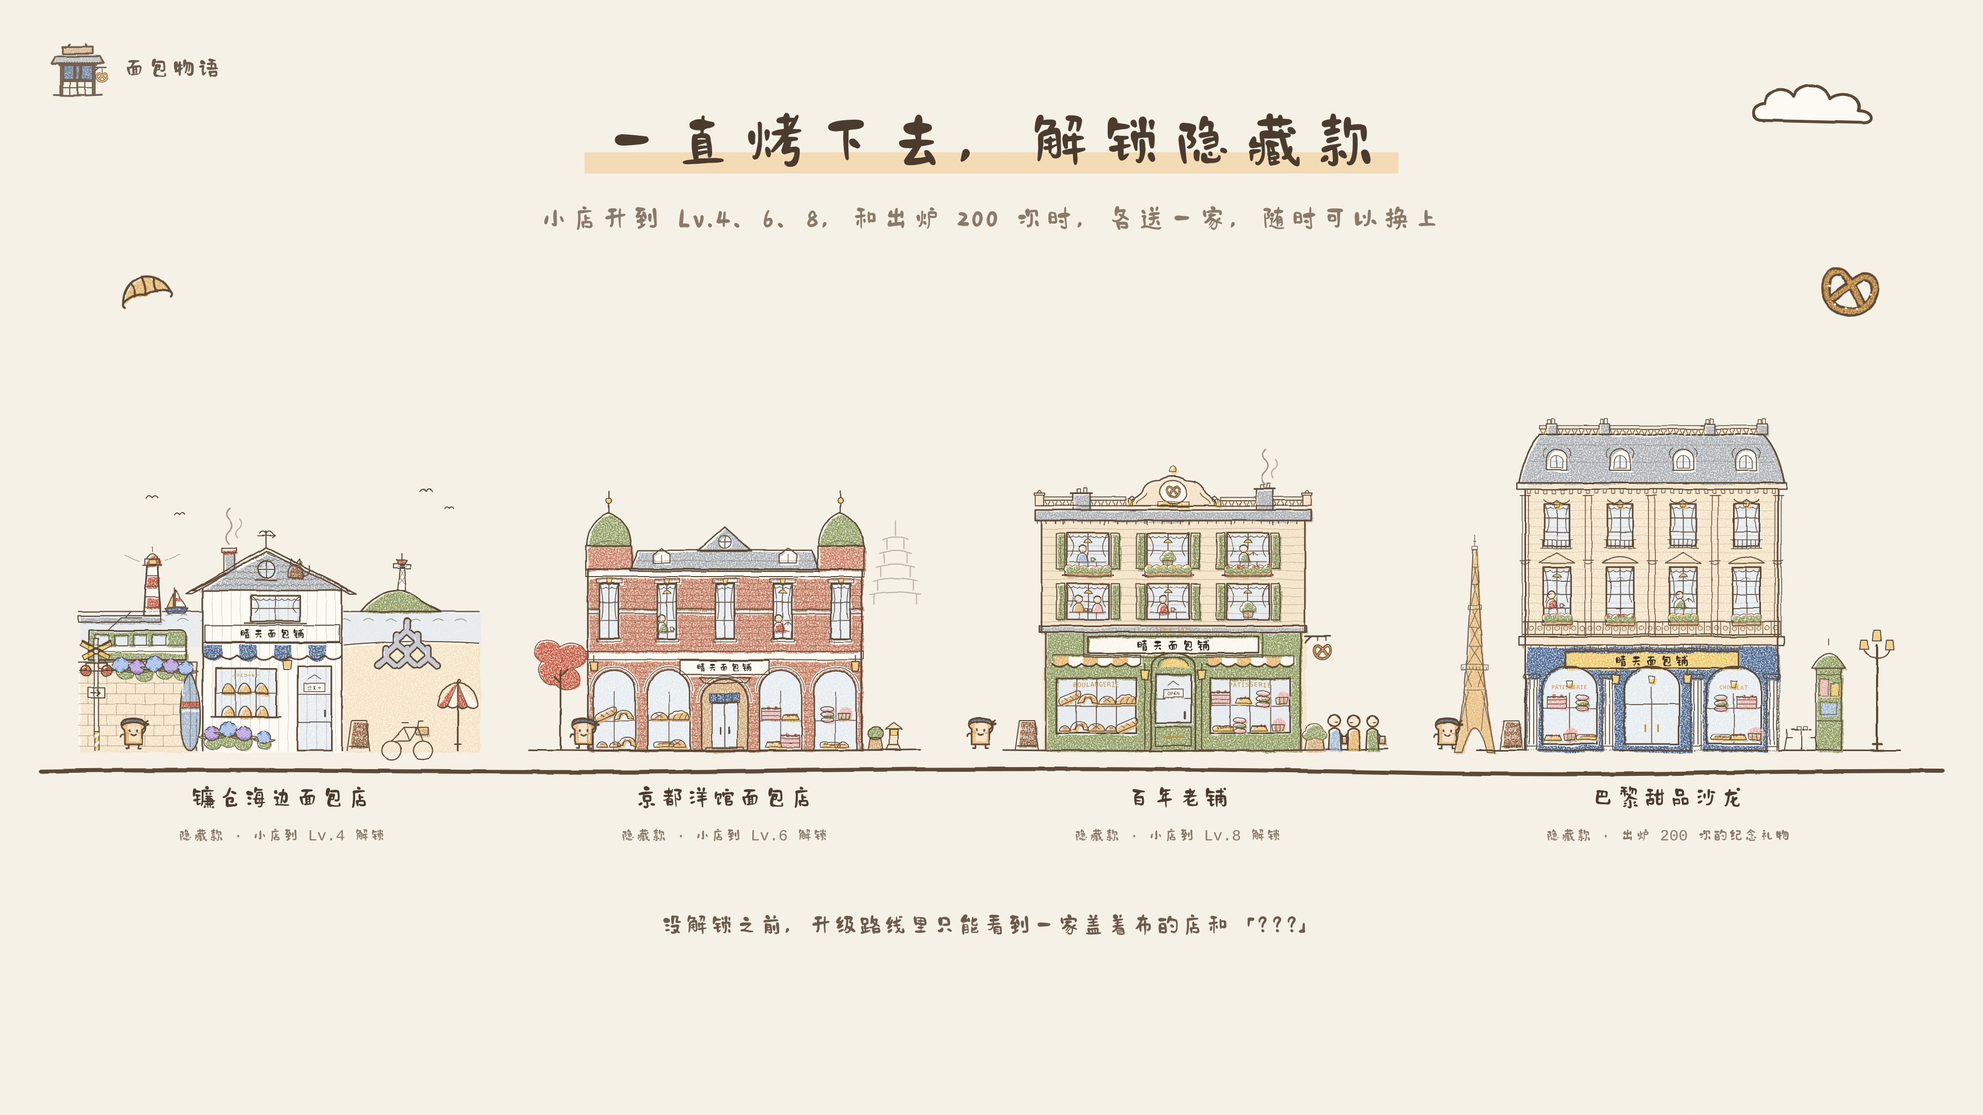
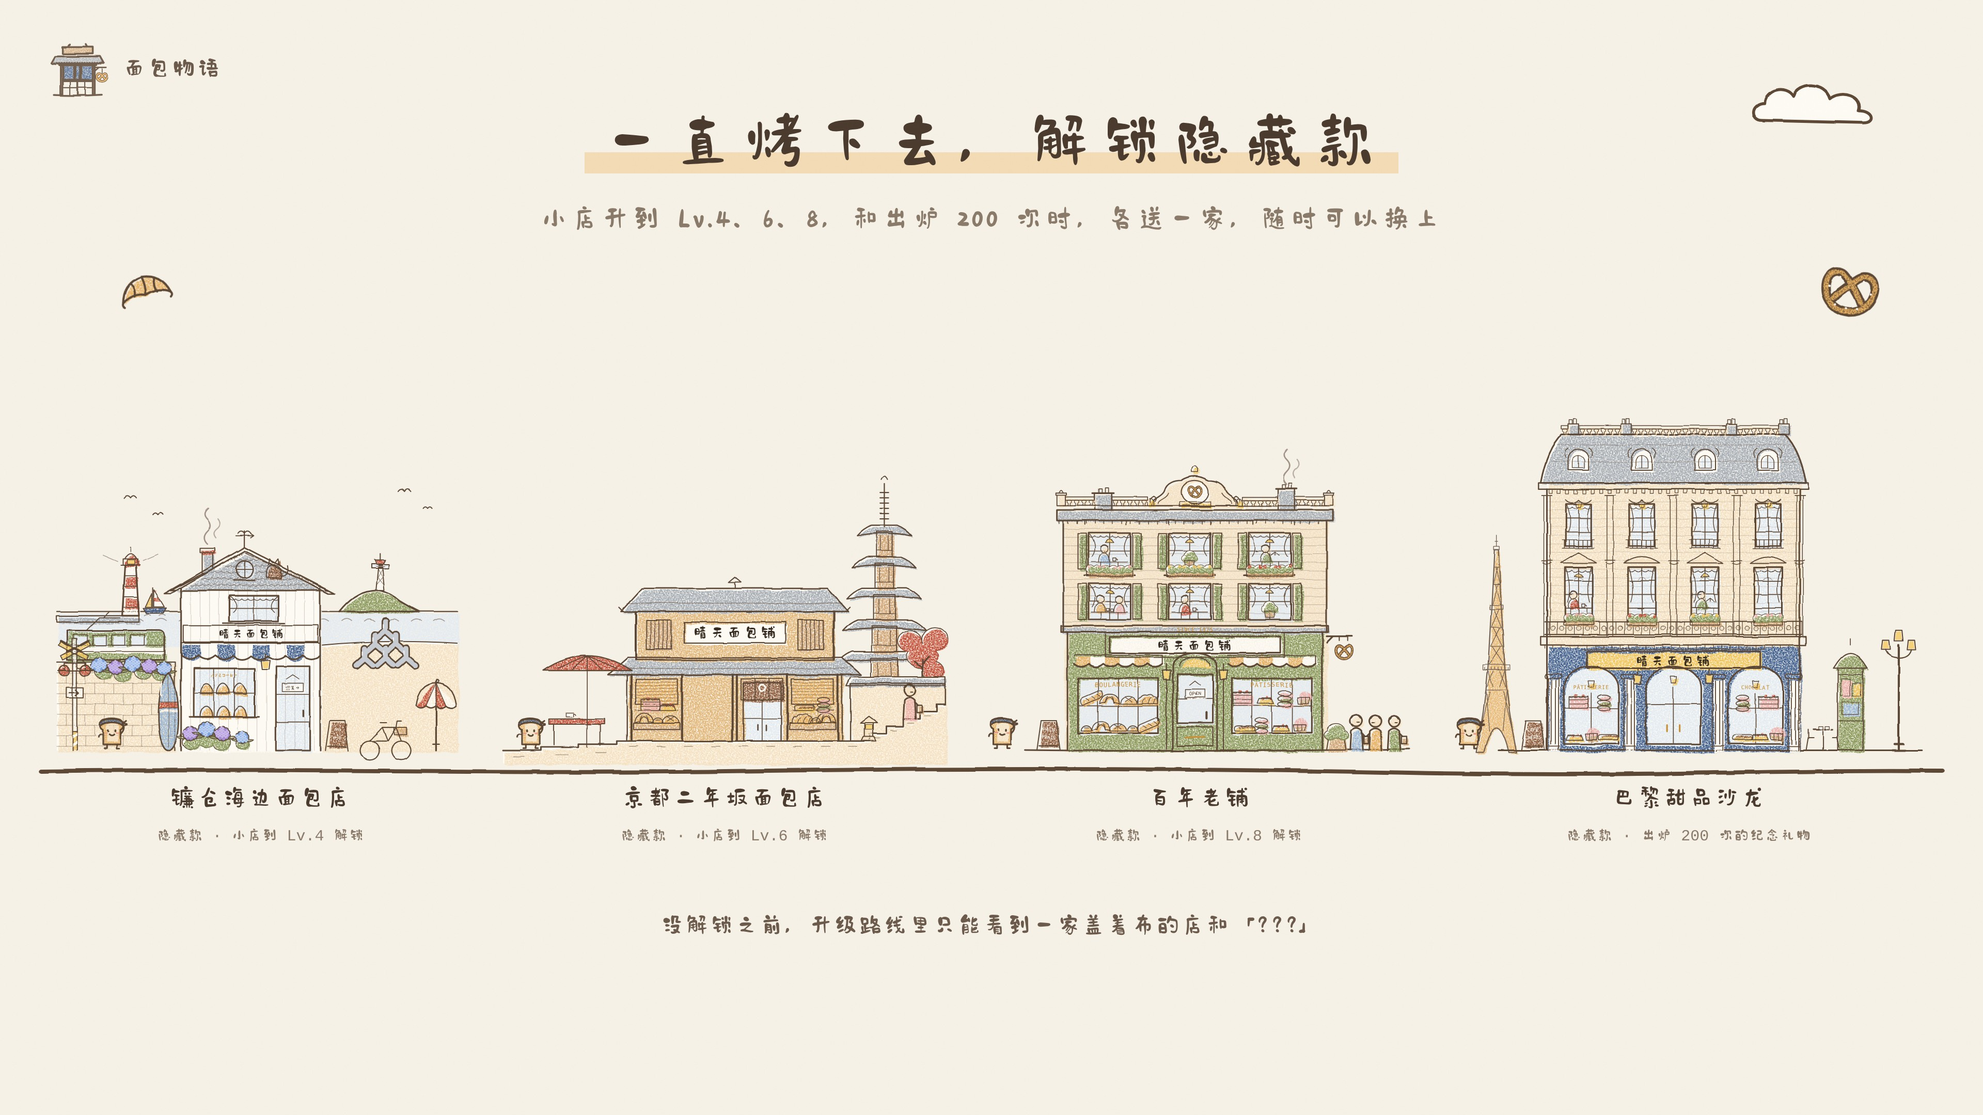
Kyoto secret shop: Ninenzaka slope teahouse bakery
Replaces the red-brick version: an ochre teahouse-style bakery halfway up
stone steps, with bamboo blinds, a red bench and parasol, a walker on the
steps, a stone lantern and maple by the wall and the Yasaka pagoda above.
Promo images regenerated.

Claude-Session: https://claude.ai/code/session_01F9RazEHnZ5c2EgjunkrFMc

Changed region(s): [[0.0312, 0.3722, 0.9688, 0.7755]]

diff --git a/js/sketch.js b/js/sketch.js
@@ -1057,62 +1057,76 @@ function shanghaiShikumen() {
   `, `0 0 ${W} ${G + 12}`, 'store', 1.5);
 }
 
-// 京都老洋馆面包店：大正时期辰野式的红砖洋楼（三条通那种老银行），红砖墙上横着几道白石带，两角各一座小圆顶塔楼，
-// 中间石板屋顶开老虎窗；一楼三个拱形橱窗摆满面包，正中拱门挂一小截藏青暖帘；门口石灯笼、红枫，远处一座五重塔
-function kyotoYokan() {
-  const W = 380, G = 290;
-  const body = `M60 118 H320 V${G} H60 Z`;
-  const towerL = 'M58 118 V96 H102 V118 Z', towerR = 'M278 118 V96 H322 V118 Z';
-  const dome = (x) => `M${x - 21} 96 C${x - 21} 78 ${x - 10} 68 ${x} 64 C${x + 10} 68 ${x + 21} 78 ${x + 21} 96 Z`;
-  const roof = 'M100 120 L108 100 H272 L280 120 Z';
-  const gable = 'M164 101 L190 78 L216 101 Z';
-  const dormer = (x) => `M${x - 8} 112 V104 L${x} 98 L${x + 8} 104 V112 Z`;
-  // 白石腰线只画在窗和窗之间，不横穿窗户
-  const bands = 'M58 118 H322 V125 H58 Z M58 196 H322 V204 H58 Z ' + [[60, 71], [89, 126], [144, 181], [199, 236], [254, 291], [309, 320]].map(([x0, x1]) => `M${x0} 156 H${x1} V160 H${x0} Z`).join(' ');
-  const bays = [80, 135, 190, 245, 300];
-  const ups = bays.map((x) => pane(x - 9, 132, 18, 52, 2, 3));
-  const lintels = bays.map((x) => `M${x - 12} 127 h24 v4 h-24 Z M${x - 11} 184 h22 v3 h-22 Z`).join(' ');
-  const keys = bays.map((x) => `M${x - 2.5} 127 h5 l-1 6 h-3 Z`).join(' ');
-  const arch = (x, w, top) => `M${x - w / 2} ${G} V${top + w / 2} A${w / 2} ${w / 2} 0 0 1 ${x + w / 2} ${top + w / 2} V${G} Z`;
-  const shopWins = [[85, 40], [137, 40], [243, 40], [295, 40]].map(([x, w]) => arch(x, w, 214));
-  const archStone = [[85, 40, 214], [137, 40, 214], [243, 40, 214], [295, 40, 214], [190, 44, 222]].map(([x, w, t]) => `M${x - w / 2 - 3} ${t + w / 2} A${w / 2 + 3} ${w / 2 + 3} 0 0 1 ${x + w / 2 + 3} ${t + w / 2}`).join(' ');
-  const door = arch(190, 44, 222);
-  const sign = 'M148 205 H232 V218 H148 Z';
-  const pagoda = (x, y) => { let d = `M${x} ${y - 78} V${y - 64}`; for (let i = 0; i < 5; i++) { const yy = y - 60 + i * 13, w = 12 + i * 3; d += ` M${x - w} ${yy} Q${x} ${yy - 5} ${x + w} ${yy} M${x - w + 4} ${yy} V${yy + 9} M${x + w - 4} ${yy} V${yy + 9}`; } return d; };
-  const lantern = 'M343 290 h14 l-2 -5 h-10 Z M346 285 V270 h8 V285 M342 270 l8 -6 l8 6 Z M347 276 h6 v-5 h-6 Z';
-  const maple = bush([[30, 214, 16], [44, 200, 14], [22, 196, 12], [40, 222, 12]]);
+// 京都二年坂面包店：石板坡道一级级往上走，店坐在半坡的平台上；土黄色的墙、竹帘半卷、木格栅，
+// 门口红毡长凳和一把大红伞；右边坡道往上走到矮土墙后面，远处是八坂塔（五重塔），墙边一棵红枫和石灯笼
+function kyotoSlope() {
+  const W = 420, G = 300;
+  // 地面：左边低、右边一级级往上
+  const steps = [[0, 300], [36, 297], [72, 294], [108, 291], [332, 291], [348, 284], [364, 277], [380, 270], [396, 263], [412, 256], [420, 256]];
+  let groundD = `M0 ${G + 12} V300`; for (let i = 1; i < steps.length; i++) groundD += ` H${steps[i][0]} V${steps[i][1]}`; groundD += ` V${G + 12} Z`;
+  let stepLines = ''; for (let i = 1; i < steps.length - 1; i++) stepLines += `M${steps[i][0]} ${steps[i - 1][1]} V${steps[i][1]} `;
+  // 八坂塔：五层，越往上越窄，屋檐两头翘起来
+  const px = 362, pb = 236, th = 30;
+  let tiers = '', roofs = '', rails = '';
+  for (let i = 0; i < 5; i++) {
+    const y = pb - i * th, bw = 13 - i * 1.4, r = 44 - i * 4.5;
+    tiers += `M${px - bw} ${y} V${y - th + 6} H${px + bw} V${y} Z `;
+    rails += `M${px - bw} ${y - 6} H${px + bw} M${px - bw / 2} ${y - th + 10} V${y - 6} M${px + bw / 2} ${y - th + 10} V${y - 6} `;
+    roofs += `M${px - r} ${y - th + 10} Q${px - r + 6} ${y - th + 3} ${px - r + 14} ${y - th} H${px + r - 14} Q${px + r - 6} ${y - th + 3} ${px + r} ${y - th + 10} Q${px} ${y - th + 5} ${px - r} ${y - th + 10} Z `;
+  }
+  const top = pb - 4 * th - th;
+  const spire = `M${px} ${top + 2} V${top - 40}`;
+  const rings = Array.from({ length: 6 }, (_, i) => `M${px - 4} ${top - 6 - i * 5} h8`).join(' ');
+  // 坡道右边的矮土墙（瓦顶），挡住塔的下半截
+  const wallR = 'M330 291 V236 H420 V256 H412 V263 H396 V270 H380 V277 H364 V284 H348 V291 Z';
+  const wallCap = 'M326 238 L330 230 H420 V238 Z';
+  // 店：土黄墙两层，一层木格栅 + 竹帘，二层一长条虫笼窗和招牌
+  const roofTop = 'M112 168 L132 146 H308 L328 168 Z';
+  const upper = 'M126 168 H314 V214 H126 Z';
+  const eave = 'M100 228 L118 212 H322 L340 228 Z';
+  const lower = 'M118 228 H322 V291 H118 Z';
+  const posts = [122, 170, 218, 222, 270, 318].map((x) => `M${x} 228 V291`).join(' ');
+  const sudare = [[126, 166], [274, 314]].map(([a, b]) => `M${a} 232 H${b} V256 H${a} Z`).join(' ');
+  const sudareLines = [[126, 166], [274, 314]].map(([a, b]) => Array.from({ length: 7 }, (_, i) => `M${a} ${235 + i * 3} H${b}`).join(' ')).join(' ');
+  const counters = [[124, 168], [272, 316]].map(([a, b]) => `M${a} 274 H${b} V280 H${a} Z`).join(' ');
+  const door = 'M228 236 H264 V291 H228 Z';
+  const noren = 'M226 232 H266 V252 H226 Z';
+  const mushiko = 'M136 176 H160 V204 H136 Z M280 176 H304 V204 H280 Z';
+  const sign = 'M172 178 H268 V198 H172 Z';
+  const lantern = 'M340 291 h14 l-2 -4 h-10 Z M343 287 V274 h8 V287 M339 274 l8 -6 l8 6 Z M344 280 h6 v-4 h-6 Z';
+  const maple = bush([[398, 210, 14], [410, 194, 12], [386, 196, 11], [408, 224, 10]]);
+  const umb = 'M38 224 Q80 196 122 224 Z';
   return wrap(`
-    <path d="${pagoda(352, 150)}" stroke-width="1.1" opacity=".35"/>
-    <path d="${body} ${towerL} ${towerR} ${dome(80)} ${dome(300)} ${roof} ${gable}" class="f-paper" stroke="none"/>
-    ${crayon([['brick', body], ['brick', `${towerL} ${towerR}`], ['tile', `${roof} ${gable}`], ['leaf', `${dome(80)} ${dome(300)}`], ['paper', bands], ['paper', lintels],
-      ['skysoft', ups.map((u) => u.fill).join(' ')], ['skysoft', shopWins.join(' ')], ['paper', sign], ['wood', door], ['skysoft', `M178 ${G - 2} V244 h24 V${G - 2} Z`], ['ai', 'M176 236 h28 v9 h-28 Z'],
-      ['paper', `${dormer(130)} ${dormer(250)}`], ['skysoft', 'M184 92 a6 6 0 1 0 12 0 a6 6 0 1 0 -12 0 Z']])}
-    ${bricks(60, 320, 125, 196, 6)}${bricks(60, 320, 204, G, 6)}
-    <path d="${ups.map((u) => u.fill).join(' ')} ${shopWins.join(' ')} ${door} ${sign}" class="f-paper" stroke="none"/>${crayon([['skysoft', ups.map((u) => u.fill).join(' ')], ['skysoft', shopWins.join(' ')], ['paper', sign], ['wood', door], ['skysoft', `M178 ${G - 2} V244 h24 V${G - 2} Z`], ['ai', 'M176 236 h28 v9 h-28 Z']], 0, 0)}
-    <path d="${body}" stroke-width="1.6"/><path d="${towerL} ${towerR}" stroke-width="1.3"/><path d="${dome(80)} ${dome(300)}" stroke-width="1.3"/>
-    <path d="M80 64 V56 M300 64 V56 M80 50 V44 M300 44 V50" stroke-width="1.1"/>${crayon([['custard', 'M77.5 53 a2.5 2.5 0 1 0 5 0 a2.5 2.5 0 1 0 -5 0 Z M297.5 53 a2.5 2.5 0 1 0 5 0 a2.5 2.5 0 1 0 -5 0 Z']], 0, 0)}<path d="M77.5 53 a2.5 2.5 0 1 0 5 0 a2.5 2.5 0 1 0 -5 0 Z M297.5 53 a2.5 2.5 0 1 0 5 0 a2.5 2.5 0 1 0 -5 0 Z" stroke-width=".9"/>
-    <path d="M64 96 q16 -10 32 0 M284 96 q16 -10 32 0" stroke-width=".6" opacity=".6"/>
-    <path d="${roof}" stroke-width="1.3"/><path d="M104 110 H276" stroke-width=".5" opacity=".5"/>
-    <path d="${gable}" stroke-width="1.3"/><path d="M184 92 a6 6 0 1 0 12 0 a6 6 0 1 0 -12 0 Z M190 86 v12 M184 92 h12" stroke-width=".8"/>
-    <path d="${dormer(130)} ${dormer(250)}" stroke-width="1"/><path d="M130 104 v8 M250 104 v8" stroke-width=".6"/>
-    <path d="${bands}" stroke-width=".9"/><path d="${lintels}" stroke-width=".7"/>${crayon([['custard', keys]], 0, 0)}<path d="${keys}" stroke-width=".6"/>
-    ${ups.map((u) => u.lines).join('')}${bays.map((x) => curtains(x - 9, 132, 18, 52)).join('')}
-    ${windowScene(126, 132, 18, 52, 'cup', 'leaf')}${windowScene(236, 132, 18, 52, 'book', 'shu')}
-    <path d="${shopWins.join(' ')}" stroke-width="1.3"/><path d="${archStone}" stroke-width="2.6" stroke="#fffcf5"/><path d="${archStone}" stroke-width=".7"/>
-    <path d="${[85, 137, 243, 295].map((x) => `M${x - 20} 262 H${x + 20} M${x} 234 V${G}`).join(' ')}" stroke-width=".7"/>
-    ${display([['baguette', 76], ['croissant', 94], ['boule', 128], ['braid', 146], ['cake', 234], ['tart', 252], ['macarons', 287], ['cupcake', 303]], 261)}
-    ${display([['roll', 74], ['roll', 86], ['croissant', 97], ['eclair', 132], ['boule', 145], ['tart', 236], ['cake', 252], ['eclair', 290], ['roll', 302]], G - 3)}
+    <path d="${tiers} ${roofs}" class="f-paper" stroke="none"/>
+    ${crayon([['wood', tiers], ['tile', roofs]])}
+    <path d="${tiers}" stroke-width="1"/><path d="${rails}" stroke-width=".6"/><path d="${roofs}" stroke-width="1.2"/><path d="${spire} ${rings}" stroke-width="1.1"/><path d="M${px - 3} ${top - 44} q3 -6 6 0" stroke-width="1"/>
+    ${blob(maple, 'shu', 1.6)}<path d="M398 236 V214 M398 222 l-7 -6 M398 218 l6 -7" stroke-width="1.5"/>
+    <path d="${wallR} ${wallCap}" class="f-paper" stroke="none"/>${crayon([['soft', wallR], ['tile', wallCap]])}<path d="${wallR}" stroke-width="1.2"/><path d="${wallCap}" stroke-width="1.1"/>
+    <path d="${roofTop} ${upper} ${eave} ${lower}" class="f-paper" stroke="none"/>
+    ${crayon([['tile', `${roofTop} ${eave}`], ['ochre', upper], ['ochre', lower], ['wood', `${mushiko} ${counters}`], ['crust', sudare], ['skysoft', door], ['choco', noren], ['paper', sign]])}
+    <path d="${roofTop}" stroke-width="1.3"/><path d="M118 160 H322" stroke-width=".6" opacity=".6"/><path d="M114 168 l-4 -4 M326 168 l4 -4" stroke-width="1.1"/>
+    <path d="M220 146 v-6 h-6 l6 -5 l6 5 h-6" stroke-width="1"/>
+    <path d="${upper}" stroke-width="1.2"/><path d="M126 168 V214 M314 168 V214" stroke-width="2"/>
+    <path d="${mushiko}" stroke-width="1"/><path d="${[136, 280].map((x) => [4, 8, 12, 16, 20].map((d) => `M${x + d} 176 V204`).join(' ')).join(' ')}" stroke-width=".7"/>
     <path d="${sign}" stroke-width="1.1"/>
-    <path d="${door}" stroke-width="1.4"/><path d="M178 ${G - 2} V244 h24 V${G - 2} Z M190 244 V${G - 2}" stroke-width=".9"/><path d="M186 268 v6 M194 268 v6" stroke-width="1.4"/>
-    <path d="M176 236 h28 v9 h-28 Z M183 236 v9 M190 236 v9 M197 236 v9" stroke-width=".8"/>
-    <path d="M170 226 h40 l4 -5 h-48 Z" stroke-width="1"/>
-    <path d="M172 ${G} h36 v-3 h-36 Z" stroke-width=".9"/>
-    ${lamp(66, 206)}${lamp(314, 206)}
-    ${blob(maple, 'shu', 1.6)}<path d="M34 ${G} V214 M34 226 l-6 -6 M34 220 l7 -7" stroke-width="1.6"/>
-    ${crayon([['soft', lantern]], 0, 0)}<path d="${lantern}" stroke-width="1"/><path d="M347 276 h6 v-5 h-6 Z" class="glow" stroke="none"/>
-    ${crayon([['wood', 'M326 290 l2 -12 h10 l2 12 Z'], ['leaf', bush([[333, 274, 7]])]], 0, 0)}<path d="M326 290 l2 -12 h10 l2 12 Z" stroke-width="1"/><path d="${bush([[333, 274, 7]])}" stroke-width="1"/>
-    <path d="M4 ${G} Q${W / 2} ${G + 2} ${W - 4} ${G - 1}"/>
-    ${mascotAt(-2, G - 33).replace('translate(-2', 'translate(44')}
+    <path d="${eave}" stroke-width="1.3"/><path d="M112 222 H328" stroke-width=".6" opacity=".6"/>
+    <path d="${lower}" stroke-width="1.2"/><path d="${posts}" stroke-width="2"/>
+    <path d="${sudare}" stroke-width="1"/><path d="${sudareLines}" stroke-width=".4" opacity=".7"/><path d="M146 256 v4 M294 256 v4" stroke-width=".8"/>
+    <path d="${[[126, 166], [274, 314]].map(([a, b]) => `M${a} 262 H${b}`).join(' ')}" stroke-width=".7"/>
+    ${display([['croissant', 134], ['roll', 147], ['boule', 159], ['braid', 284], ['roll', 297], ['croissant', 307]], 274)}
+    ${display([['cake', 140], ['tart', 156], ['eclair', 286], ['macarons', 304]], 262)}
+    <path d="${counters}" stroke-width="1"/>
+    <path d="${door}" stroke-width="1.2"/><path d="M246 252 V291 M228 270 H264" stroke-width=".8"/><path d="M242 276 v5 M250 276 v5" stroke-width="1.3"/>
+    <path d="${noren}" stroke-width="1"/><path d="M239.3 232 V252 M252.6 232 V252" stroke-width=".8"/><path d="M243 241 a3 3 0 1 0 6 0 a3 3 0 1 0 -6 0" stroke="#fffcf5" stroke-width="1.4"/>
+    <path d="${groundD}" class="f-paper" stroke="none"/>${crayon([['soft', groundD]])}
+    <path d="M0 300 ${steps.slice(1).map(([x, y]) => `H${x} V${y}`).join(' ')}" stroke-width="1.4"/><path d="${stepLines}" stroke-width="1"/>
+    <path d="${Array.from({ length: 9 }, (_, i) => `M${120 + i * 26} 296 l8 0`).join(' ')} M10 306 h10 M50 304 h12 M88 302 h10 M352 288 h6 M368 281 h6 M384 274 h6 M400 267 h6" stroke-width=".7" opacity=".5"/>
+    ${crayon([['soft', lantern]], 0, 0)}<path d="${lantern}" stroke-width="1"/><path d="M344 280 h6 v-4 h-6 Z" class="glow" stroke="none"/>
+    ${crayon([['shu', umb], ['shu', 'M44 270 h52 v5 h-52 Z']], 0, 0)}<path d="${umb}" stroke-width="1.2"/><path d="M80 210 V297 M80 210 L52 222 M80 210 L66 223 M80 210 L94 223 M80 210 L108 222" stroke-width=".8"/>
+    <path d="M44 270 h52 v5 h-52 Z M48 275 v20 M92 275 v20" stroke-width="1"/>
+    ${crayon([['paper', 'M60 268 h7 v-4 h-7 Z']], 0, 0)}<path d="M60 268 h7 v-4 h-7 Z M67 265 q2 0 2 1.5" stroke-width=".7"/>
+    ${queue([[386, 'pink']], 270)}
+    ${mascotAt(4, 300 - 33).replace('translate(4', 'translate(14')}
   `, `0 0 ${W} ${G + 12}`, 'store', 1.5);
 }
 
@@ -1999,7 +2013,7 @@ export const JP_DRAFTS = { kyotoMachiya: [kyotoMachiya, 424, 280], london: [lond
 const HIDDEN = {
   9: { draw: oldBakery, W: 406, H: 288, sign: { x: 118, y: 168, w: 162, h: 16, fit: true } },
   10: { draw: kamakuraShop, W: 386, H: 312, sign: { x: 122, y: 182, w: 124, h: 14, fit: true } },
-  11: { draw: kyotoYokan, W: 380, H: 302, sign: { x: 150, y: 205.5, w: 80, h: 12, fit: true } },
+  11: { draw: kyotoSlope, W: 420, H: 312, sign: { x: 174, y: 179, w: 92, h: 18, fit: true } },
   12: { draw: patisserie, W: 450, H: 352, sign: { x: 128, y: 246, w: 164, h: 16, fit: true } },
 };
 export const MAX_LEVEL = 12;

diff --git a/js/app.js b/js/app.js
@@ -99,7 +99,7 @@ const LEVELS = [
 // 镰仓 = 小店到 Lv.4、京都 = Lv.6、百年老铺 = Lv.8，巴黎甜品沙龙是累计出炉 200 次的纪念礼物
 const SECRETS = [
   { id: 10, lv: 4, name: ['镰仓海边面包店', 'Kamakura Seaside'], desc: ['海边的白色木板小屋：鱼鳞瓦屋顶、蓝白条纹雨棚，门口一丛丛紫阳花，石墙后面开过江之电，远处是灯塔、江之岛和消波块', 'A white clapboard house by the sea: fish-scale roof, blue-and-white awning, hydrangeas by the door, the Enoden tram behind the wall, a lighthouse, Enoshima and tetrapods beyond'] },
-  { id: 11, lv: 6, name: ['京都洋馆面包店', 'Kyoto Brick Bakery'], desc: ['大正时代的红砖洋馆：白石腰线、两角小圆顶塔楼，一楼拱形橱窗摆满面包，拱门挂着一截藏青暖帘，门口石灯笼和红枫，远处一座五重塔', 'A Taisho-era red-brick building: white stone bands, two little domed towers, arched windows full of bread, a short indigo noren at the door, a stone lantern, a maple and a pagoda beyond'] },
+  { id: 11, lv: 6, name: ['京都二年坂面包店', 'Kyoto Slope Bakery'], desc: ['二年坂半坡上的茶屋式面包店：土黄墙、竹帘、木格子，门口红毡长凳和大红伞，石板坡道往上走就是八坂塔，墙边一棵红枫', 'A teahouse-style bakery halfway up Ninenzaka: ochre walls, bamboo blinds, a red bench and parasol, stone steps up to the Yasaka pagoda and a maple by the wall'] },
   { id: 9, lv: 8, name: ['百年老铺', 'Century Bakery'], desc: ['三层的欧洲老面包店：墨绿色木门面、条纹布篷、铸铁挂牌，橱窗里摆满面包和甜点，屋顶立着碱水面包徽章', 'A three-story old-world bakery: forest-green woodwork, a striped awning, windows full of bread and cakes and a pretzel crest on the roof'] },
   { id: 12, bakes: 200, name: ['巴黎甜品沙龙', 'Paris Pâtisserie'], desc: ['奥斯曼风格的大楼：孟莎屋顶和石栏杆、圆形老虎窗、通长铸铁阳台，一楼三个拱门的甜品橱窗，远处一座埃菲尔铁塔', 'A Haussmann building: mansard roof with a stone balustrade, round dormers, a long iron balcony, three arched pastry windows and the Eiffel Tower in the distance'] },
 ];

diff --git a/appstore/tools/levels.html b/appstore/tools/levels.html
@@ -70,7 +70,7 @@ const LEVELS = [
 // 隐藏款：不占等级，小店到 Lv.4 / 6 / 8 和累计出炉 200 次时各送一家（和 js/app.js 的 SECRETS 一致；宣传图上的文案短一点）
 const SECRETS = [
   { id: 10, key: 'kamakura', how: ['小店到 Lv.4 解锁', 'Unlocks at Lv.4'], name: ['镰仓海边面包店', 'Kamakura Seaside'], desc: ['海边的白色小屋，门口开满紫阳花，墙后开过江之电，远处是灯塔', 'A white house by the sea: hydrangeas by the door, the Enoden tram passing, a lighthouse beyond'] },
-  { id: 11, key: 'kyoto', how: ['小店到 Lv.6 解锁', 'Unlocks at Lv.6'], name: ['京都洋馆面包店', 'Kyoto Brick Bakery'], desc: ['大正时代的红砖洋馆，一楼拱形橱窗摆满面包，门口石灯笼和红枫', 'A Taisho-era red-brick building with arched bread windows, a stone lantern and a maple'] },
+  { id: 11, key: 'kyoto', how: ['小店到 Lv.6 解锁', 'Unlocks at Lv.6'], name: ['京都二年坂面包店', 'Kyoto Slope Bakery'], desc: ['二年坂半坡上的茶屋式面包店，门口红伞长凳，石阶往上就是八坂塔', 'A teahouse-style bakery on Ninenzaka, a red parasol out front and the Yasaka pagoda up the steps'] },
   { id: 9, key: 'century', how: ['小店到 Lv.8 解锁', 'Unlocks at Lv.8'], name: ['百年老铺', 'Century Bakery'], desc: ['欧洲百年老面包店：墨绿木门面、满橱窗的面包和甜点，屋顶立着碱水面包徽章', 'An old-world bakery: green woodwork, windows full of bread and cakes, a pretzel crest on the roof'] },
   { id: 12, key: 'paris', how: ['出炉 200 次的纪念礼物', 'A gift for 200 bakes'], name: ['巴黎甜品沙龙', 'Paris Pâtisserie'], desc: ['奥斯曼风格的大楼，一楼三个拱门的甜品橱窗，远处一座埃菲尔铁塔', 'A Haussmann building with three arched pastry windows and the Eiffel Tower beyond'] },
 ];

diff --git a/sw.js b/sw.js
@@ -1,5 +1,5 @@
 // 离线缓存：app 外壳预缓存，其余（比如字体）用到时顺手缓存。
-const CACHE = 'baker-v110';
+const CACHE = 'baker-v111';
 const SHELL = [
   './', 'index.html', 'manifest.webmanifest', 'css/style.css',
   'js/app.js', 'js/store.js', 'js/parser.js', 'js/sketch.js', 'js/timers.js', 'js/i18n.js', 'js/catalog.js', 'catalog/recipes.json',

diff --git a/css/style.css b/css/style.css
@@ -118,6 +118,7 @@ img { max-width: 100%; display: block; }
 .f-ajisai { fill: #a58bd0; }
 .f-ajiblue { fill: #7fa3dc; }
 .f-brick { fill: #c97a5e; }
+.f-ochre { fill: #e2b77a; }
 .sp1 { stroke: #d9604c; } .sp2 { stroke: #5f86c0; } .sp3 { stroke: #7d9150; }
 .herb { stroke: #6e8a45; }
 .spot { stroke: #a0642c; }

diff --git a/appstore/README.md b/appstore/README.md
@@ -40,7 +40,7 @@
 | `upgrade-full-teaser.jpg` | 完整升级路线竖图（不剧透）：8 个等级 + 下面虚线框里 4 家盖着布的隐藏款，只写解锁条件 | 2484×3312（3:4） |
 | `upgrade-full-reveal.jpg` | 同一张图的揭晓版：4 家隐藏款亮出来，写上名字 | 2484×3312（3:4） |
 | `levels-all.jpg` | 总图：从周末小推车到旗舰面包店，8 家店按同一比例排在两条街上，越往后越大，下面写等级、名字和解锁要出炉几次 | 3840×2160（16:9） |
-| `levels-hidden.jpg` | 隐藏款总图：小店到 Lv.4 / 6 / 8 解锁的镰仓海边面包店、京都洋馆面包店、百年老铺，和出炉 200 次送的巴黎甜品沙龙 | 3840×2160（16:9） |
+| `levels-hidden.jpg` | 隐藏款总图：小店到 Lv.4 / 6 / 8 解锁的镰仓海边面包店、京都二年坂面包店、百年老铺，和出炉 200 次送的巴黎甜品沙龙 | 3840×2160（16:9） |
 | `xiaohongshu.jpg`（只有中文） | 小红书竖图：同样 8 家店，四排每排两家，越往下越大 | 2484×3312（3:4） |
 | `xiaohongshu-hidden.jpg`（只有中文） | 小红书竖图：4 家隐藏款，两排每排两家 | 2484×3312（3:4） |
 | `level-1.jpg` … `level-8.jpg` | 每个等级一张方图：店面放大在中间，上面是等级和解锁条件，下面是店名和一句介绍 | 2048×2048 |
